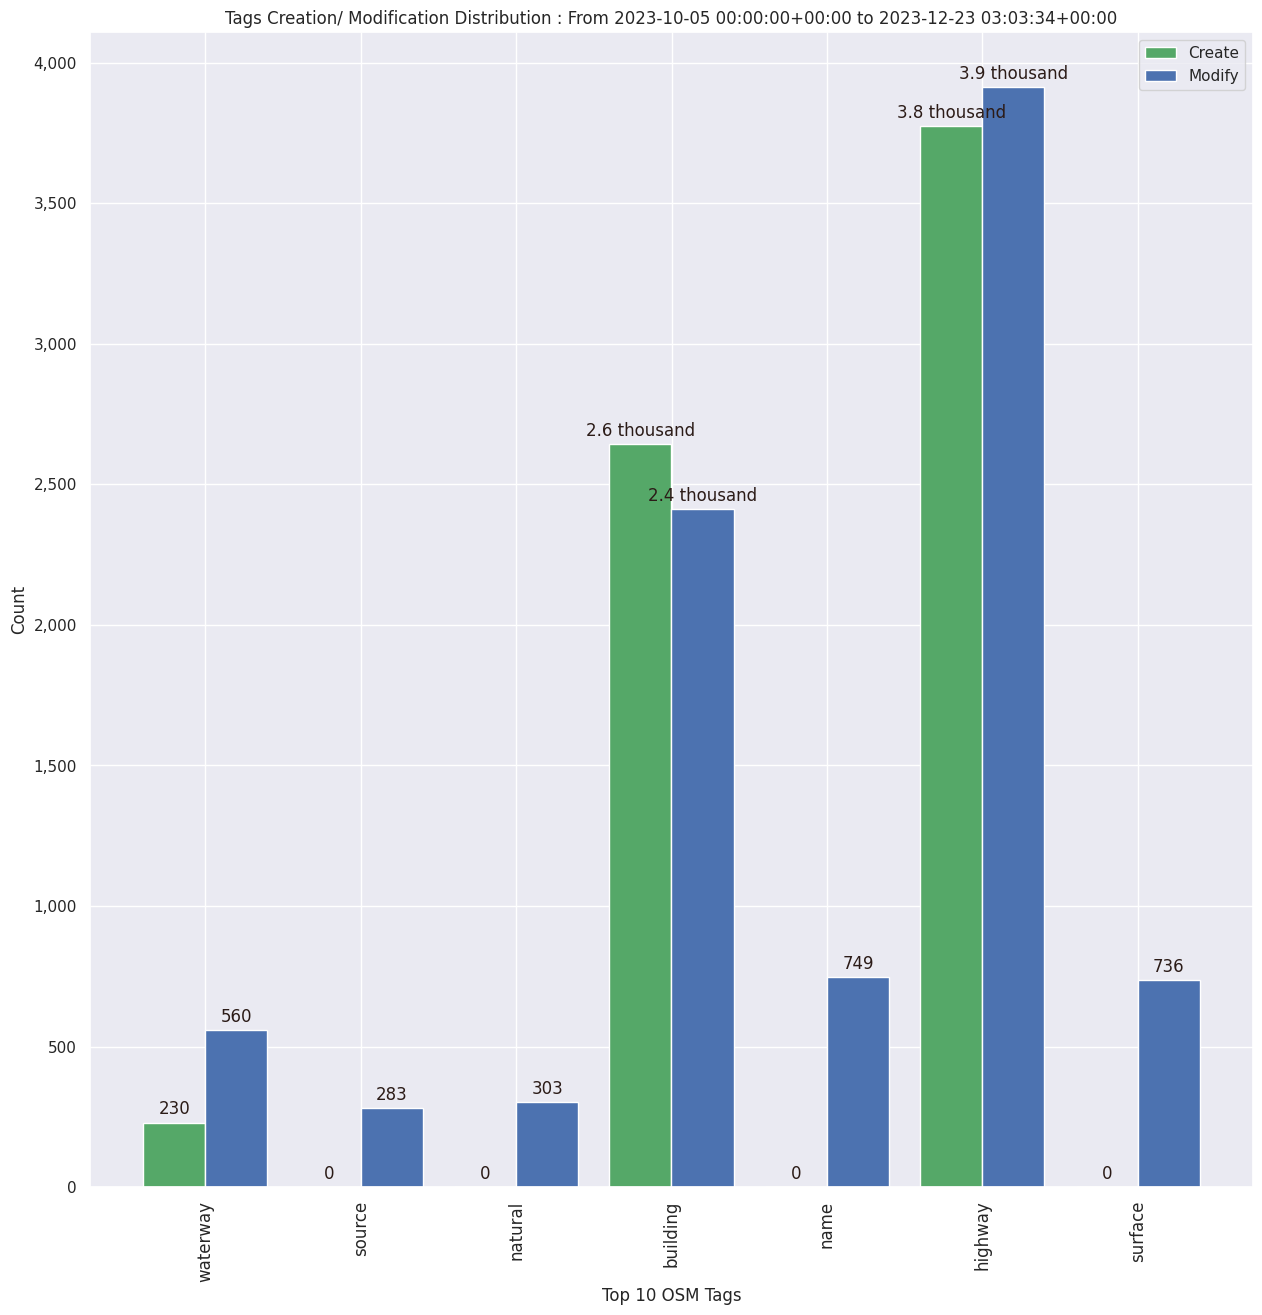
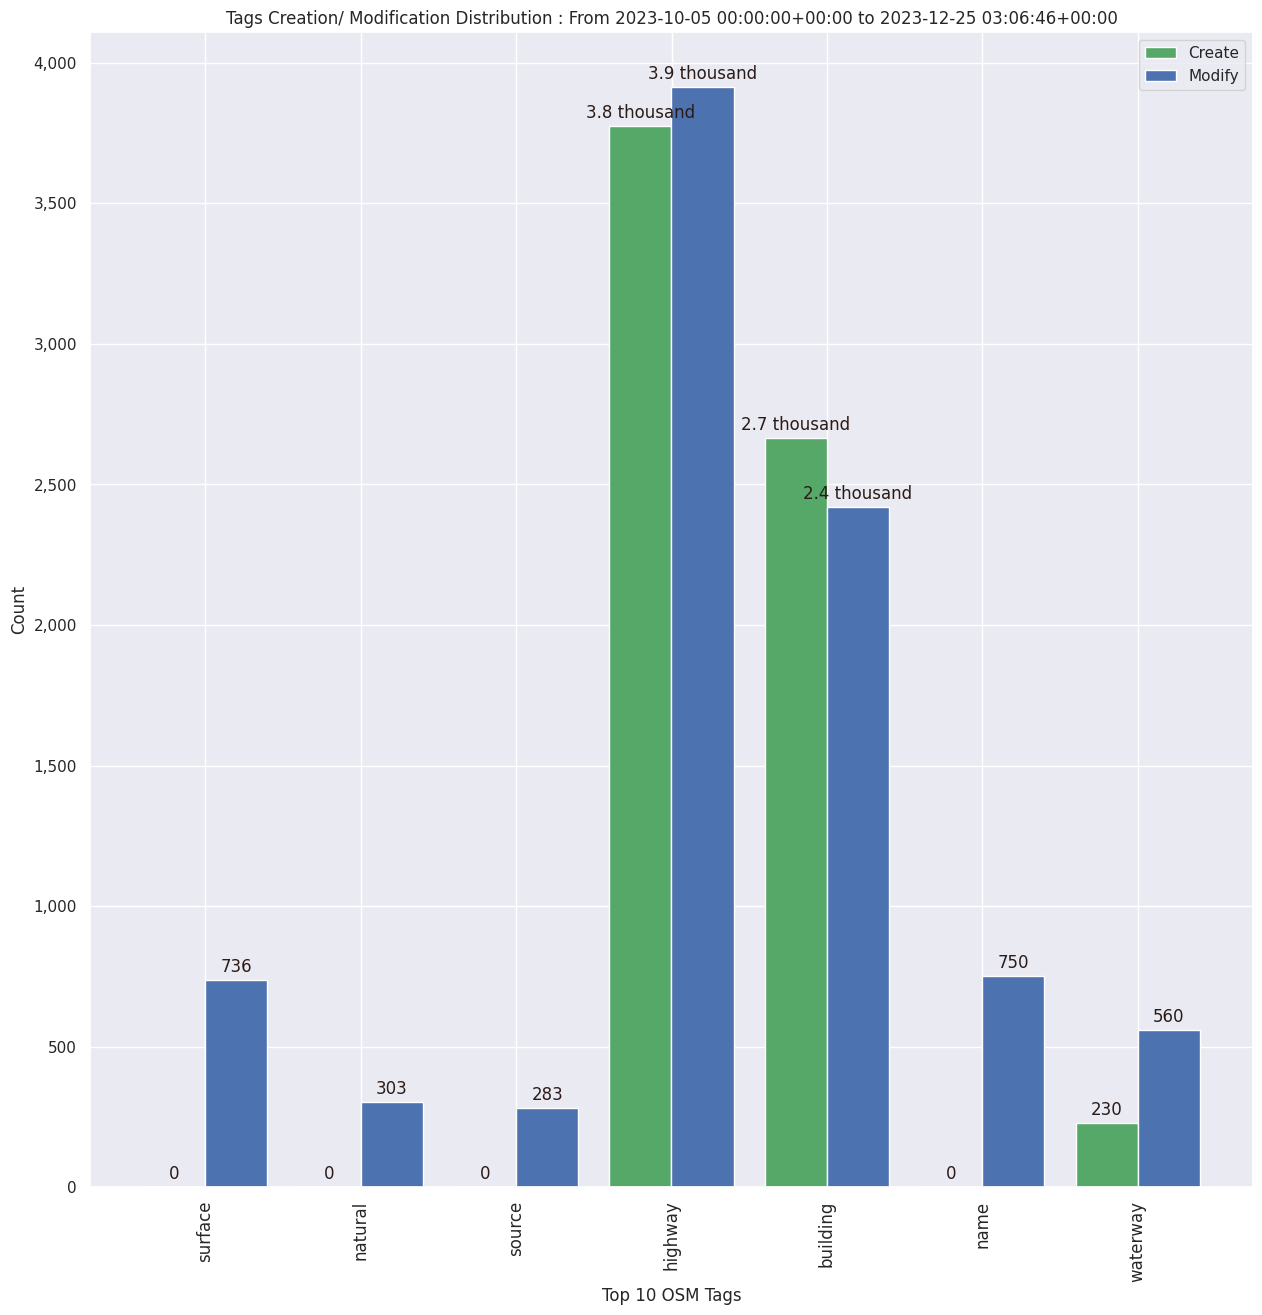
Updated Every2days SNRMPNepal stats

diff --git a/stats/SNRMPNepal/Every2days/Readme.md b/stats/SNRMPNepal/Every2days/Readme.md
@@ -1,20 +1,20 @@
-### Last Update : Stats from 2023-10-05 00:00:00+00:00 to 2023-12-23 03:03:34+00:00 (UTC Timezone)
+### Last Update : Stats from 2023-10-05 00:00:00+00:00 to 2023-12-25 03:06:46+00:00 (UTC Timezone)
 
-#### 82 Users made 3.1 thousand changesets with 312.6 thousand map changes.
-#### 163.0 thousand OSM Elements were Created, 116.2 thousand Modified & 33.4 thousand Deleted.
+#### 82 Users made 3.1 thousand changesets with 312.8 thousand map changes.
+#### 163.1 thousand OSM Elements were Created, 116.2 thousand Modified & 33.4 thousand Deleted.
 Get Full Stats at [stats.csv](/stats/SNRMPNepal/Every2days/stats.csv)
  & Get Summary Stats at [stats_summary.csv](/stats/SNRMPNepal/Every2days/stats_summary.csv)
 
 Top 5 Users are : 
 - Aarogya Pandey : 70.2 thousand Map Changes
 - Shrestha Shristi : 47.0 thousand Map Changes
-- Niruta Neeupane : 31.0 thousand Map Changes
+- Niruta Neeupane : 31.2 thousand Map Changes
 - Ashim Paudel : 20.6 thousand Map Changes
 - Vivek Dumre : 14.3 thousand Map Changes
 
 Summary of Supplied Tags
 - poi = Created: 97, Modified : 292
-- building = Created: 2.6 thousand, Modified : 2.4 thousand
+- building = Created: 2.7 thousand, Modified : 2.4 thousand
 - highway = Created: 3.8 thousand, Modified : 3.9 thousand
 - waterway = Created: 230, Modified : 560
 - amenity = Created: 2, Modified : 44
@@ -23,7 +23,7 @@ Summary of Supplied Tags
 
 Top 5 Created tags are :
 - highway: 3.8 thousand
-- building: 2.6 thousand
+- building: 2.7 thousand
 - waterway: 230
 - natural: 100
 - surface: 65
@@ -32,15 +32,15 @@ Top 5 Created tags are :
 Top 5 Modified tags are :
 - highway: 3.9 thousand
 - building: 2.4 thousand
-- name: 749
+- name: 750
 - surface: 736
 - waterway: 560
 
 
 Top 5 trending hashtags are:
-- #startnetwork : 82 users
 - #OMGuru : 82 users
 - #SNRMPNepal : 82 users
+- #startnetwork : 82 users
 - #aphub : 82 users
 - #hotosm-project-15639 : 56 users
 
@@ -50,7 +50,7 @@ Top 5 trending editors are:
 - JOSM/1.5 (18822 en) : 29 users
 - JOSM/1.5 (18700 en) : 4 users
 - JOSM/1.5 (18772 en) : 4 users
-- JOSM/1.5 (18427 en) : 2 users
+- iD 2.27.3 : 2 users
 
 
 Top 5 trending Countries where user contributed are:
